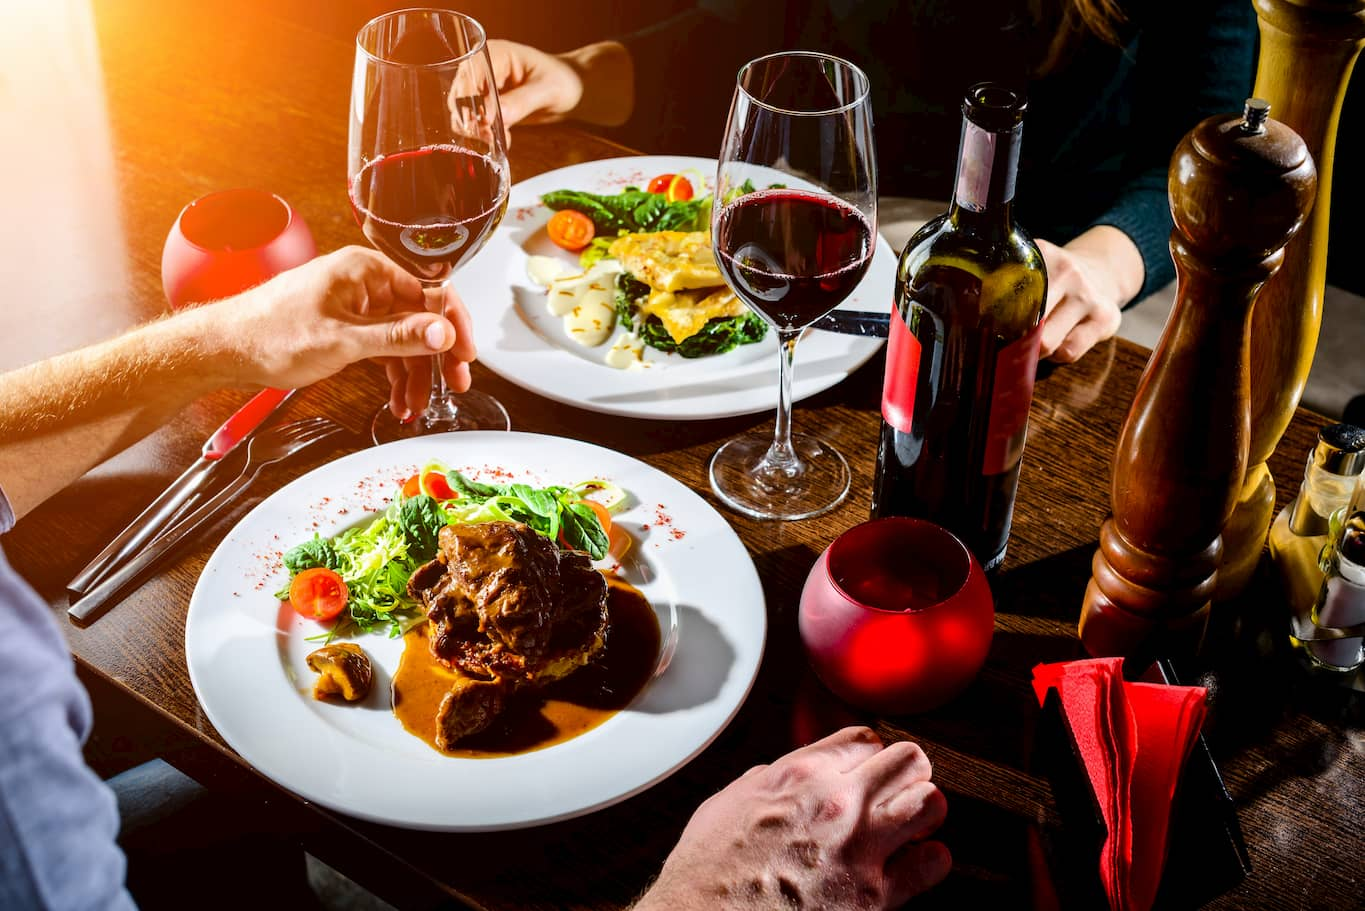
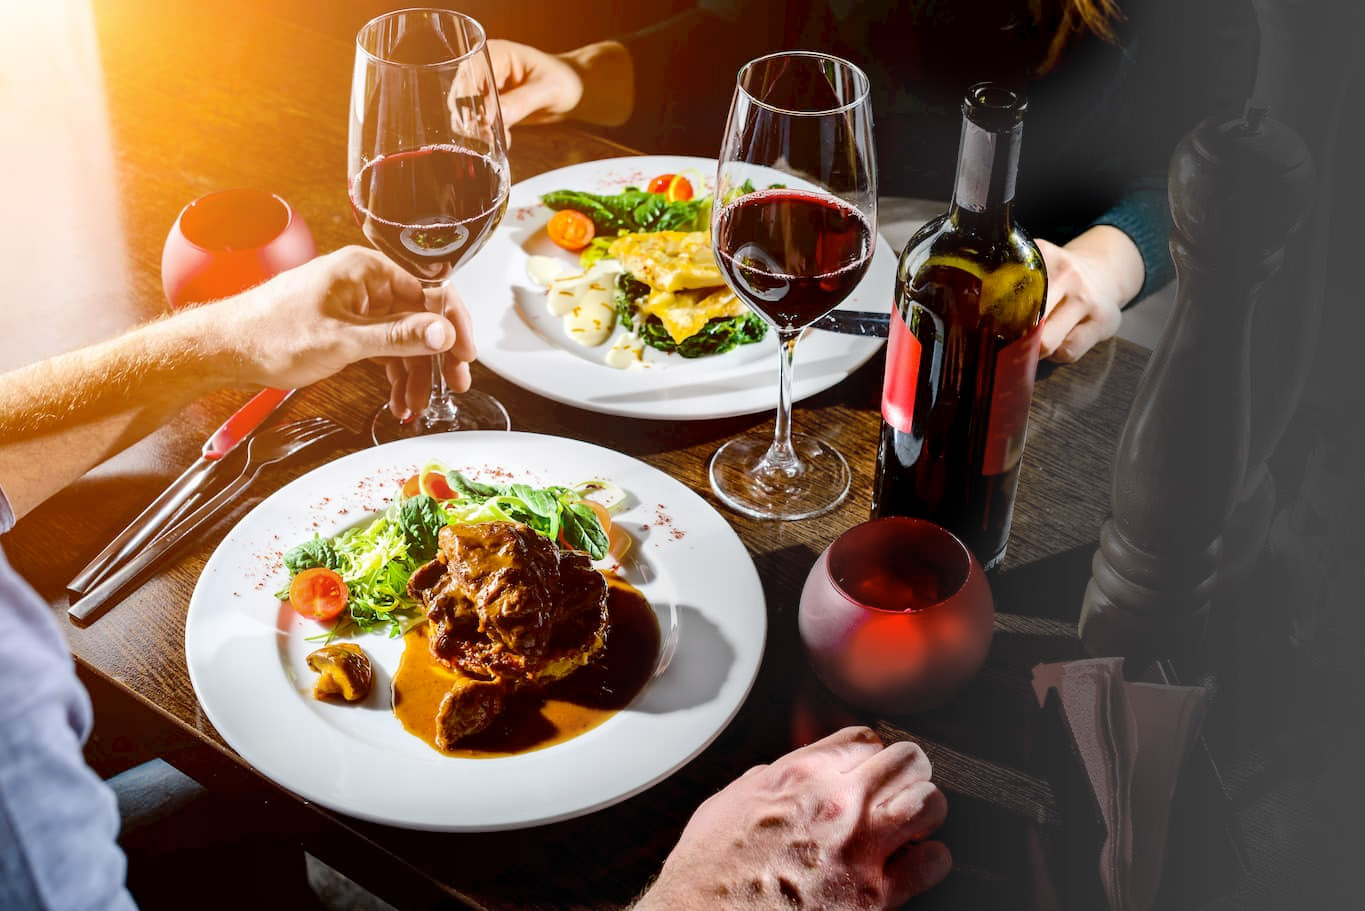
Home page colors update

diff --git a/src/views/Home.vue b/src/views/Home.vue
@@ -52,7 +52,7 @@
                   target="_blank"
                 >
                   <img
-                    src="@/assets/images/skubacz1.png"
+                    src="@/assets/images/skubacz.png"
                     alt="icon"
                     class="unselectable"
                   />
@@ -202,12 +202,11 @@ export default class Home extends Vue {
       title: "Nasze menu na dowóz",
       subTitle: "Poznaj nasze smaki i zostań z nami na stałe.",
       paragraphs: [
-        "Z poszanowaniem dla Państwa, w naszym menu na dowóz, które proponujemy Państwu, poza pizzą znalazły się tylko wyselekcjonowane dania, które jesteśmy Państwu dostarczyć w tak krótkim czasie aby nie utraciły one swojego smaku i aromatu. Nie zależy nam na ilości sprzedanych „placków” pizzy, makaronów czy innych dań. Dla nas najważniejsza jest jakość i Państwa zadowolenie. Nasi kucharze i pizzaiolo są specjalistami w swym fachu i chcemy aby ich praca nie szła na marne. Mamy nadzieję, że będziecie mogli docenić ich kunszt.",
-        "Ze swojej strony prosimy o wyrozumiałość w sytuacjach losowych, gdyż na pewne jak  korki czy inne zdarzenia drogowe nie mamy wpływu.",
-        "Jednak prosimy pamiętać iż żadna potrawa w dostawie nie będzie tak smakować jak ta podana na miejscu. Zapraszamy więc serdecznie."
+        "Z poszanowaniem dla Państwa, w naszym menu na dowóz, poza pizzą znalazły się tylko wyselekcjonowane dania, które jesteśmy Państwu dostarczyć w tak krótkim czasie aby nie utraciły one swojego smaku i aromatu. Nie zależy nam na ilości, najważniejsza jest jakość i Państwa zadowolenie. Nasi kucharze i pizzaiolo są specjalistami w swym fachu i chcemy aby ich praca nie szła na marne. Mamy nadzieję, że będziecie mogli docenić ich kunszt.",
+        "Ze swojej strony prosimy o wyrozumiałość w sytuacjach losowych, gdyż na pewne jak korki czy inne zdarzenia drogowe nie mamy wpływu. Prosimy pamiętać iż żadna potrawa w dostawie nie będzie tak smakować jak ta podana na miejscu. Zapraszamy więc serdecznie."
       ],
       image: "slide3.jpg",
-      backgroundColor: "#cbba9e"
+      backgroundColor: "white"
     }
   ];
 
@@ -358,6 +357,9 @@ export default class Home extends Vue {
                   height: auto;
                   max-width: 100%;
                   max-height: 100%;
+                }
+                &:last-of-type {
+                  opacity: 0.75;
                 }
               }
             }
@@ -550,17 +552,17 @@ export default class Home extends Vue {
               );
             }
             &.delivery::after {
-              background: rgb(203, 186, 158);
+              background: rgb(255, 255, 255);
               background: -webkit-linear-gradient(
-                90deg,
-                rgba(203, 186, 158, 1) 0%,
-                rgba(255, 255, 255, 0) 100%
+                270deg,
+                rgba(255, 255, 255, 0) 0%,
+                rgba(255, 255, 255, 1) 100%
               );
-              background: rgb(203, 186, 158);
+
               background: linear-gradient(
-                90deg,
-                rgba(203, 186, 158, 1) 0%,
-                rgba(255, 255, 255, 0) 100%
+                270deg,
+                rgba(255, 255, 255, 0) 0%,
+                rgba(255, 255, 255, 1) 100%
               );
             }
           }
@@ -612,12 +614,12 @@ export default class Home extends Vue {
               background: -webkit-linear-gradient(
                 90deg,
                 rgba(255, 255, 255, 0) 0%,
-                rgba(203, 186, 158, 1) 100%
+                rgba(255, 255, 255, 1) 100%
               );
               background: linear-gradient(
                 90deg,
                 rgba(255, 255, 255, 0) 0%,
-                rgba(203, 186, 158, 1) 100%
+                rgba(255, 255, 255, 1) 100%
               );
             }
           }
